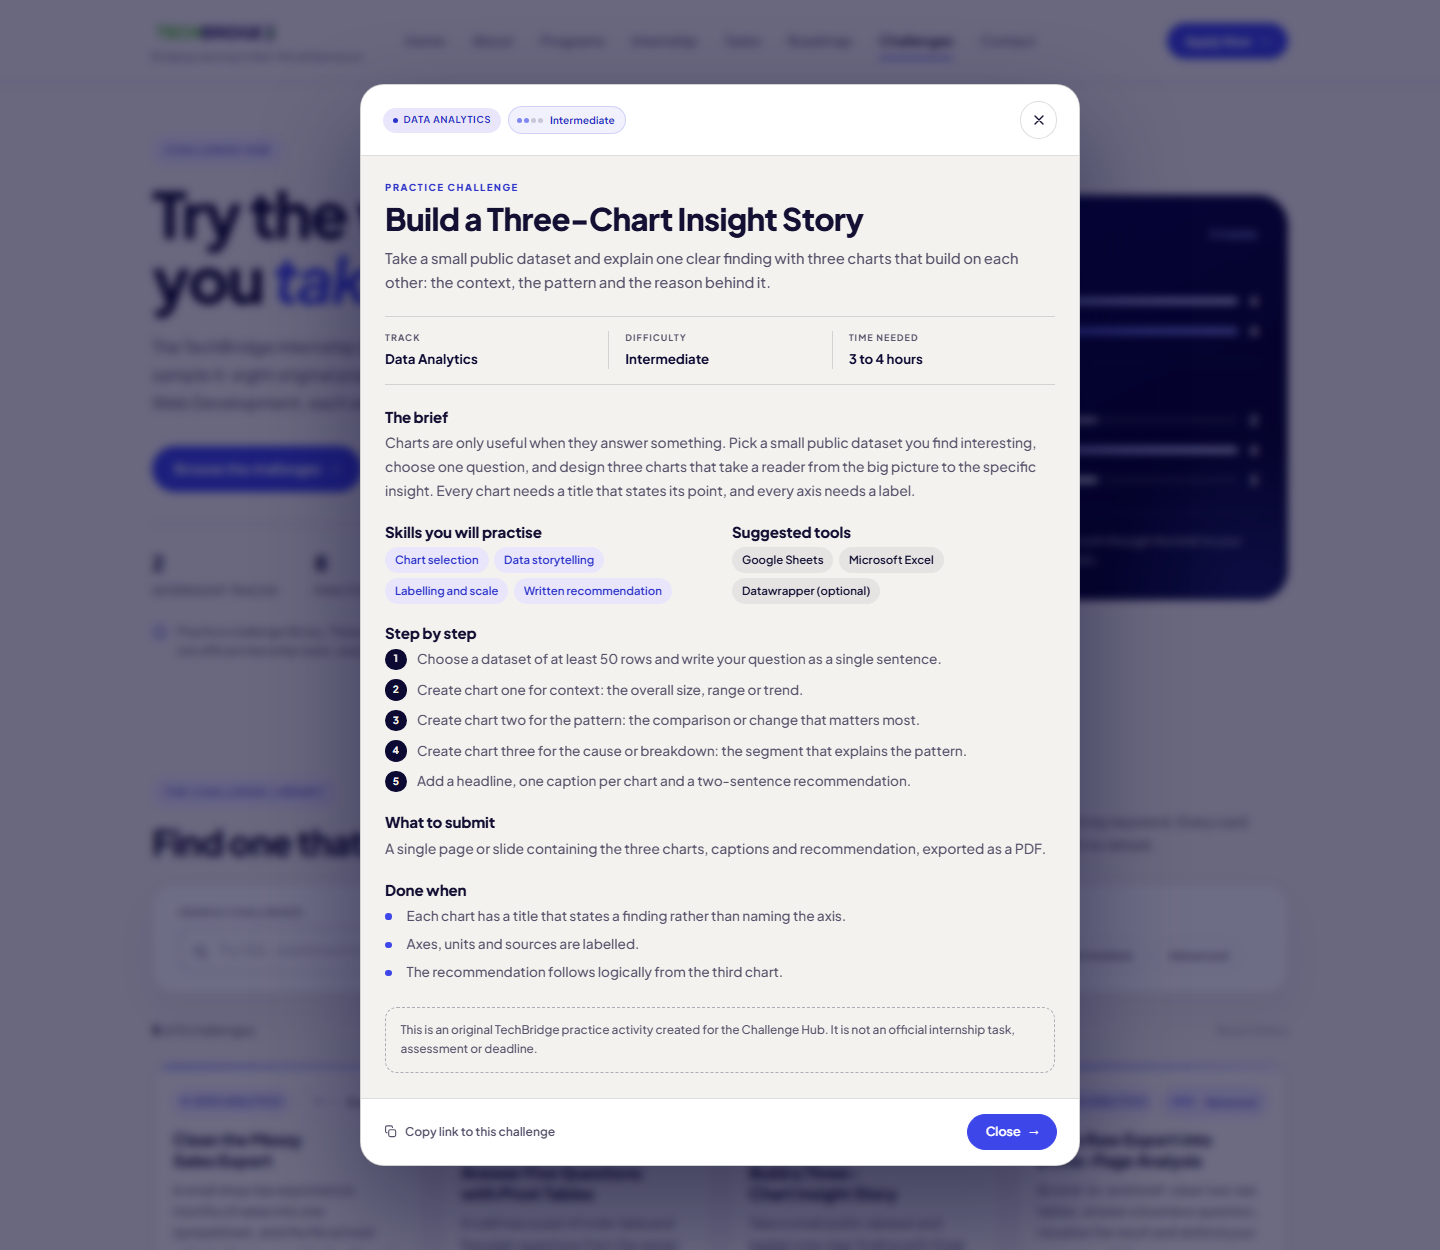
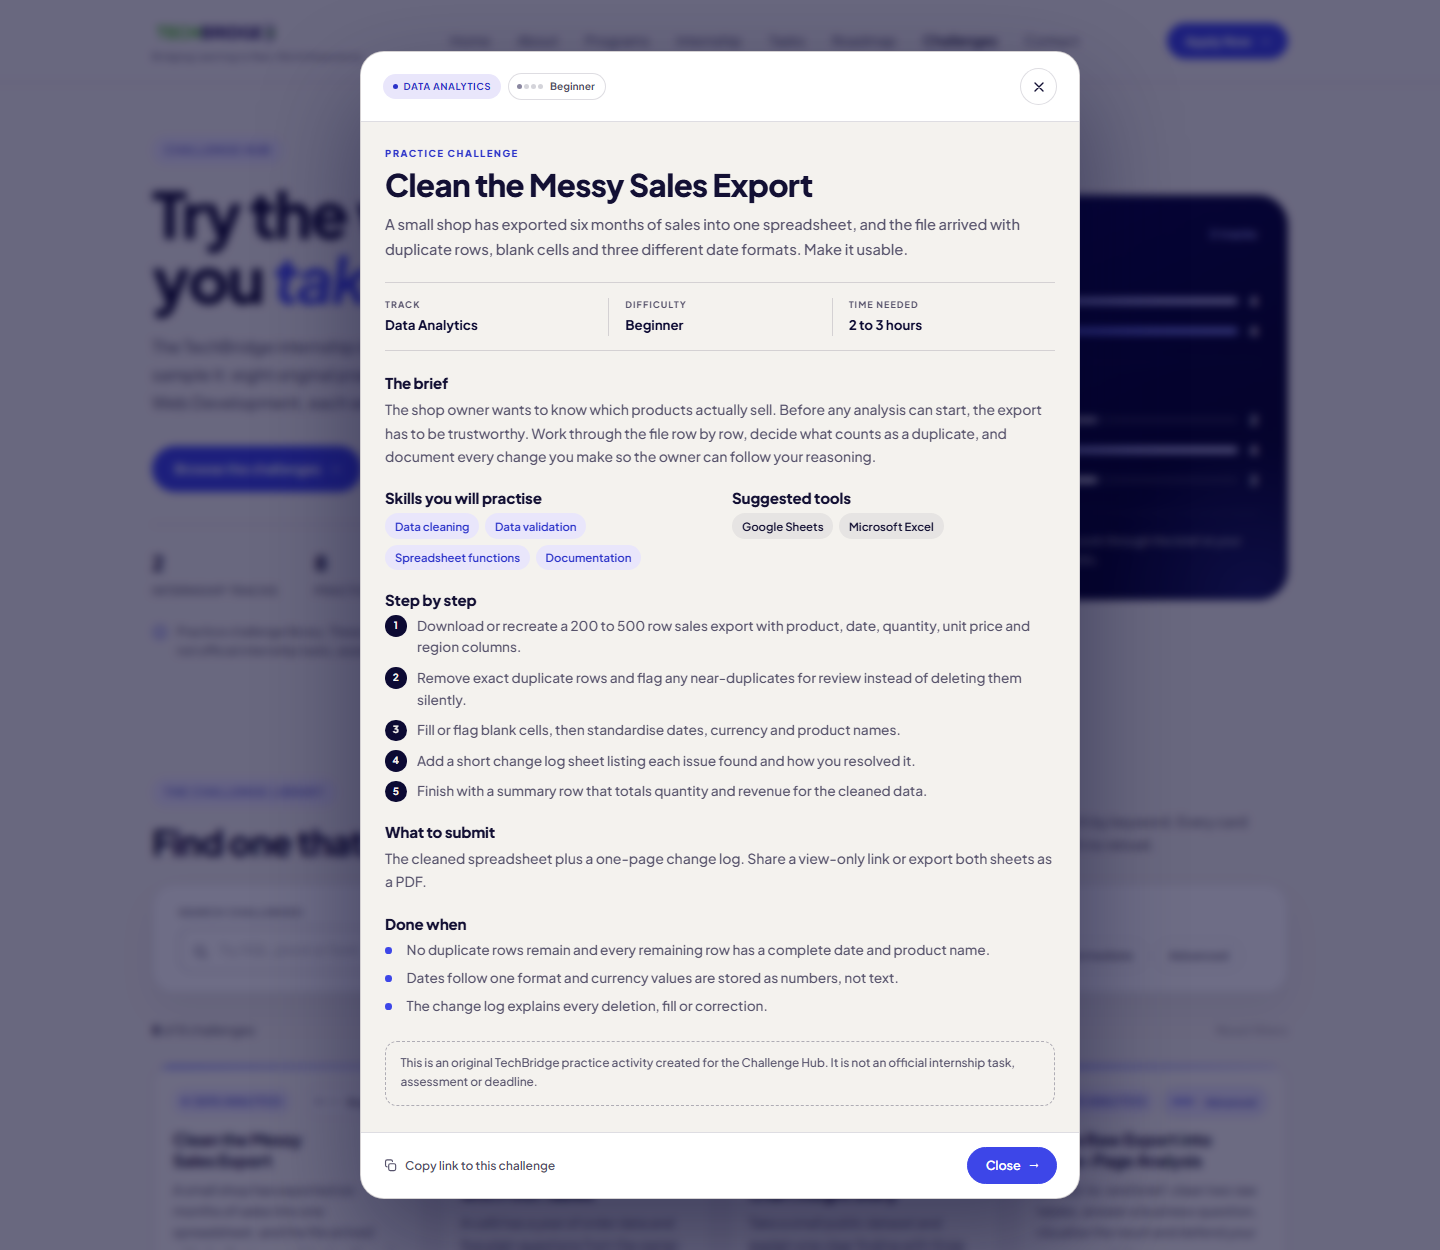
Improve header text scaling and dialog keyboard access

Changed region(s): [[0.25, 0.0312, 0.75, 0.9672]]

diff --git a/style.css b/style.css
@@ -288,8 +288,8 @@ ol {
 
 .header-inner {
   position: relative;
-  display: grid;
-  grid-template-columns: 1fr auto 1fr;
+  display: flex;
+  flex-wrap: wrap;
   align-items: center;
   gap: 1rem;
   min-height: 82px;
@@ -297,6 +297,7 @@ ol {
 
 .brand {
   display: flex;
+  flex: 0 0 auto;
   flex-direction: column;
   gap: 0.1rem;
 }
@@ -321,9 +322,11 @@ ol {
 }
 
 .site-nav {
-  justify-self: center;
   display: flex;
+  flex: 1 1 480px;
+  min-width: 0;
   align-items: center;
+  justify-content: center;
 }
 
 .nav-list {
@@ -378,7 +381,8 @@ ol {
 }
 
 .header-cta {
-  justify-self: end;
+  flex: 0 0 auto;
+  margin-left: auto;
 }
 
 .nav-toggle {
@@ -1221,6 +1225,7 @@ ol {
   }
 
   .header-inner {
+    display: grid;
     grid-template-columns: 1fr auto;
     min-height: 76px;
   }
@@ -4081,9 +4086,23 @@ ol {
 }
 
 /* Eight navigation items need a little more room on mid-size desktops */
+@media (min-width: 981px) {
+  .nav-list {
+    flex-wrap: wrap;
+    justify-content: center;
+    row-gap: 4px;
+  }
+}
+
+@media (min-width: 1261px) {
+  .nav-list {
+    column-gap: 27px;
+  }
+}
+
 @media (min-width: 981px) and (max-width: 1260px) {
   .nav-list {
-    gap: clamp(0.55rem, 1.15vw, 0.95rem);
+    column-gap: clamp(9px, 1.15vw, 15px);
   }
 
   .nav-list a {

diff --git a/challenges.html b/challenges.html
@@ -375,7 +375,7 @@
         </button>
       </div>
 
-      <div class="challenge-dialog__scroll">
+      <div class="challenge-dialog__scroll" tabindex="0" role="region" aria-label="Challenge details">
         <p class="challenge-dialog__eyebrow">Practice challenge</p>
         <h2 id="dialog-title"></h2>
         <p class="challenge-dialog__summary" id="dialog-summary"></p>

diff --git a/README.md b/README.md
@@ -105,6 +105,7 @@ Both are full-page desktop captures at 1440px wide.
 - The progress bar uses `role="progressbar"` with live values, completion buttons use `aria-pressed`, and the reset control uses `aria-disabled`
 - Challenge filters are grouped with `role="group"` labels, expose their state with `aria-pressed` and update a polite `role="status"` result count
 - The challenge detail uses a native dialog with `aria-labelledby`, a visible close button, Escape to close, focus trapped while open and focus returned to the View Challenge button on close
+- The dialog body is a labelled, focusable region, so keyboard users can scroll a long brief without leaving the dialog
 - Challenge search has a visible label, and each View Challenge button includes the challenge name for screen readers
 - Shareable URLs keep the track, difficulty, search term and open challenge without a page reload
 - A `<noscript>` message points visitors to the Programs page when JavaScript is unavailable
